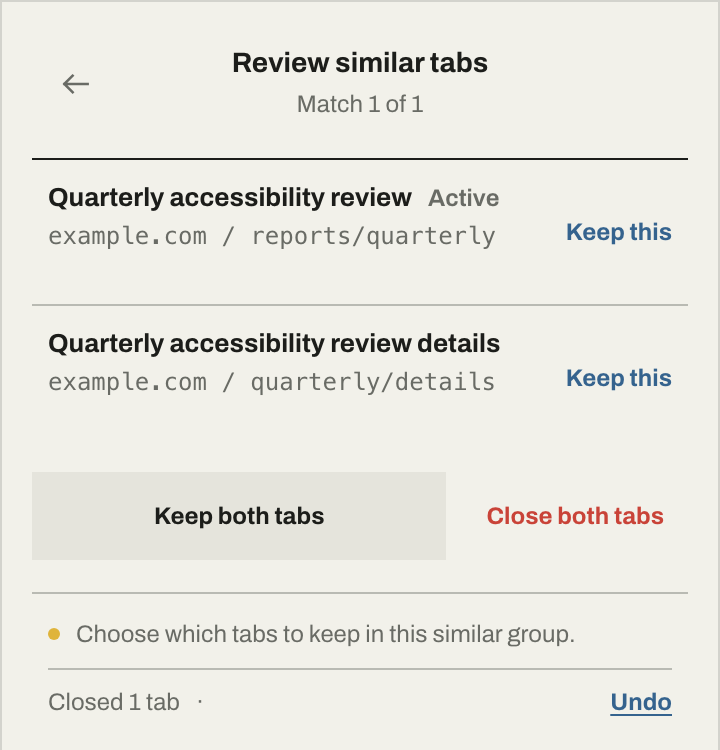
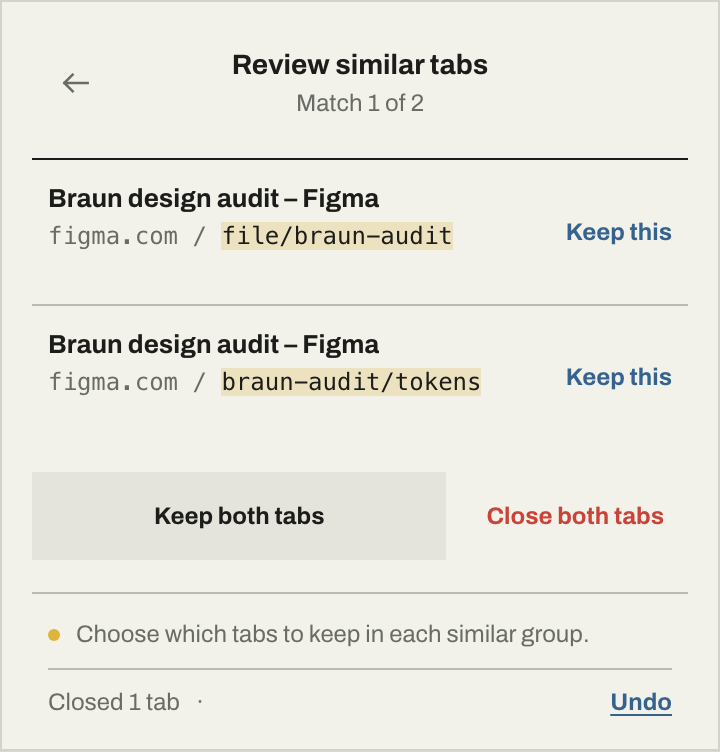
docs: render README screenshots from the shipping popup
Capture docs/tab-control-popup.png, docs/close-both-review.png, and
docs/recently-closed.png through the store asset builder at twice the popup
width, cropped to the popup's measured height, so repository documentation
tracks the live UI. The near-match screenshot now shows the highlighted
address difference the popup actually renders.

Suppress programmatic focus during capture so screenshots reflect mouse-driven
use instead of implying a keyboard selection.

Copilot-Session: 1b2e4940-ebdb-41c4-94ea-15b70b654158

diff --git a/README.md b/README.md
@@ -58,8 +58,9 @@ Shortcuts work while the main action view is open.
 | :---: | :---: |
 | <img src="docs/close-both-review.png" width="360" alt="Tab Control review showing two similar tabs, safe exit, and cleanup undo" /> | <img src="docs/recently-closed.png" width="360" alt="Tab Control Recently closed view showing tabs and windows available to restore" /> |
 
-Chrome Web Store listing imagery lives in [`docs/store`](docs/store) and is
-rendered from the shipping popup with `node tools/store-assets/build.mjs`.
+Chrome Web Store listing imagery lives in [`docs/store`](docs/store). It, these
+screenshots, and the extension icons are all rendered from the shipping popup
+and `icons/icon.svg` with `node tools/store-assets/build.mjs`.
 
 ## Install from a release
 

diff --git a/docs/store/README.md b/docs/store/README.md
@@ -28,6 +28,13 @@ shipped raster icons cannot drift from the vector source. Toolbar icons stay
 full-bleed because Chrome adds its own padding; only the listing icon is inset.
 Edit `icons/icon.svg` and rerun the build to change the mark everywhere.
 
+## Repository screenshots
+
+The build also refreshes the README screenshots in `docs/`
+(`tab-control-popup.png`, `close-both-review.png`, `recently-closed.png`). Each
+is captured at twice the popup's 360px width and cropped to the popup's measured
+height, so the documentation cannot fall behind the shipping UI.
+
 ## Regenerating
 
 ```sh
